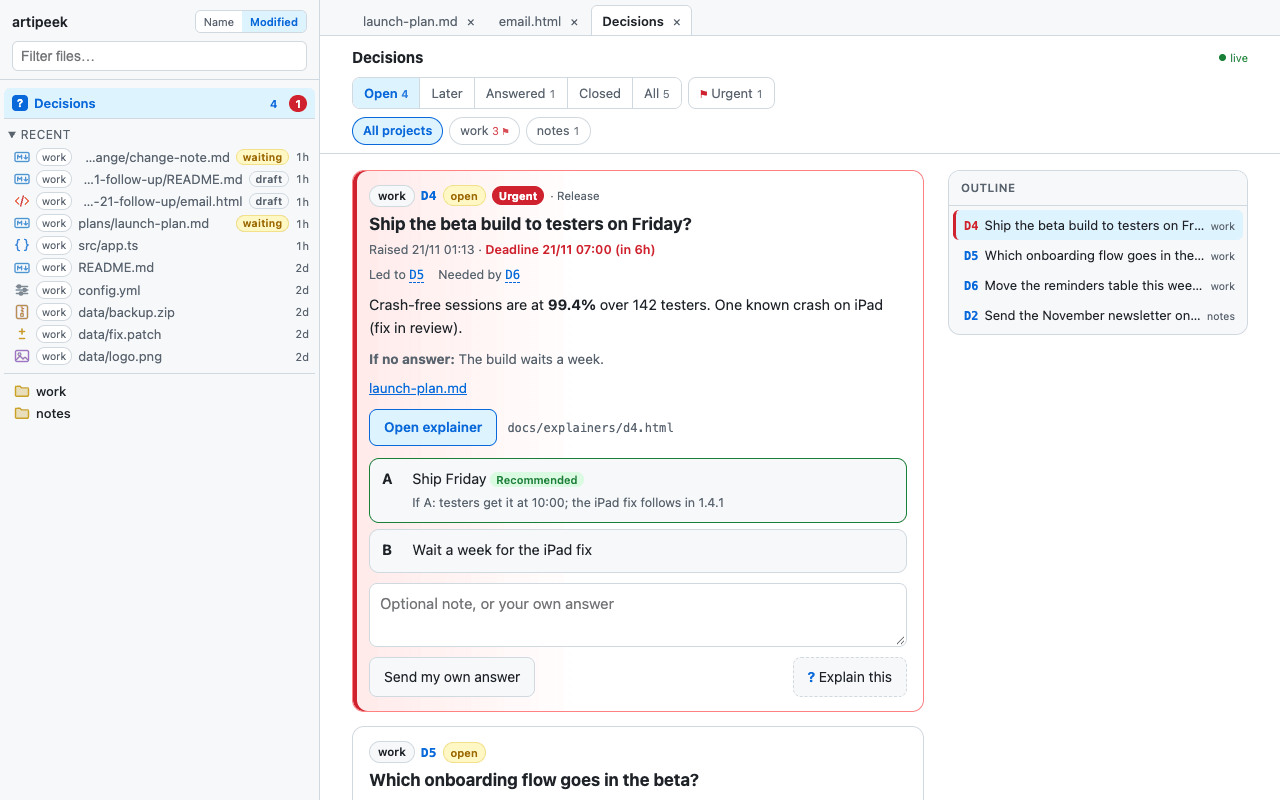
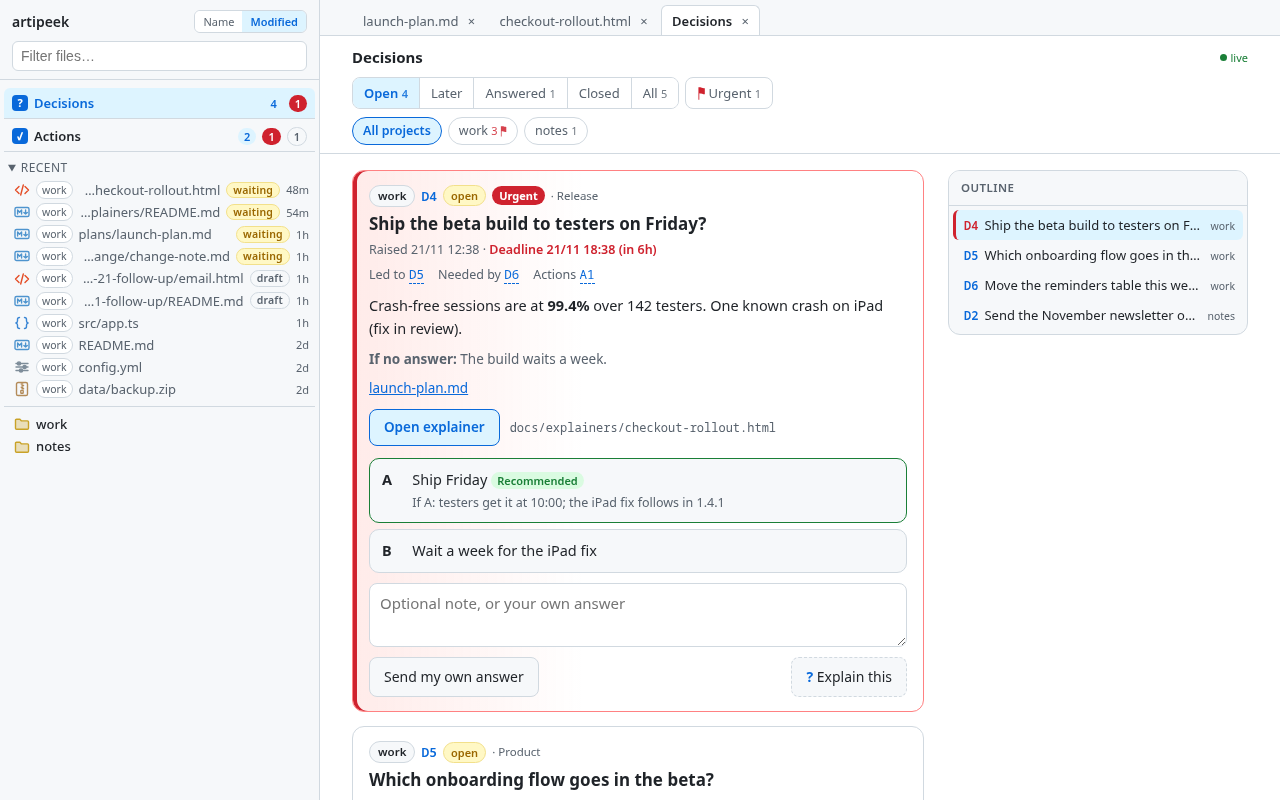
Cập nhật ảnh chụp README sau khi có mục Actions (thanh bên, trang chủ và liên kết Actions A1)
- Chụp lại từ server demo dữ liệu giả (work, notes) giữ nguyên kích thước, giao diện sáng và bố cục:
  - phone-home.png (780×1560, 127 kB): có thêm thẻ Actions kèm số đếm.
  - phone-menu.png (780×1560, 156 kB): ngăn danh sách file có thêm mục Actions kèm số đếm.
  - desktop-decisions.png (1280×800, 176 kB): thanh bên có Actions và thẻ D4 có liên kết "Actions A1".
  - desktop.png (227 kB) và desktop-html.webp (1280×800, 358 kB, 56 khung): thanh bên có mục Actions.
- Giữ nguyên phone-markdown.png, phone-dark-code.png (không hiện thanh bên) và toàn bộ ảnh ios-*, ipad-*, watch-*.
- Cập nhật alt text trong README.md cho phone-home.png, phone-menu.png và desktop-decisions.png.

diff --git a/README.md b/README.md
@@ -5,15 +5,15 @@ AI agents write plans, reports, email drafts, and code inside your local reposit
 Built with [Bun](https://bun.sh). It runs directly from TypeScript with no build step and no client framework. Keep it on localhost, share it with your own devices over [Tailscale](https://tailscale.com) (a private mesh VPN), or publish selected folders behind a Cloudflare Access login—with an optional iPhone and Apple Watch app for push notifications.
 
 <p>
-  <img src="docs/screenshots/phone-home.png" width="200" alt="Home: open and urgent decisions per folder, then one card per folder with its newest files, file-type icons and status labels">
+  <img src="docs/screenshots/phone-home.png" width="200" alt="Home: open and urgent decisions and to-do actions per folder, then one card per folder with its newest files, file-type icons and status labels">
   <img src="docs/screenshots/phone-markdown.png" width="200" alt="Two tabs open; a Markdown file with its status bar, front matter and a table">
-  <img src="docs/screenshots/phone-menu.png" width="200" alt="The file menu slides in: Decisions with its counts, Recent files of every folder, then the folders, with icons and status labels (sent, waiting, draft)">
+  <img src="docs/screenshots/phone-menu.png" width="200" alt="The file menu slides in: Decisions and Actions with their counts, Recent files of every folder, then the folders, with icons and status labels (sent, waiting, draft)">
   <img src="docs/screenshots/phone-dark-code.png" width="200" alt="Highlighted code in dark mode">
 </p>
 
 <img src="docs/screenshots/desktop-html.webp" alt="On a laptop the file list sits on the left, tabs on top. An agent's HTML explainer runs in the sandbox: animated SVG traffic routing, a chart that draws itself, a safety ring, an Option A/B toggle and answer buttons. Its status label comes from the README.md next to it">
 
-<img src="docs/screenshots/desktop-decisions.png" alt="The Decisions tab: open decisions of every folder, oldest first, an urgent one with its deadline, links between decisions, answer options, and the outline on the right">
+<img src="docs/screenshots/desktop-decisions.png" alt="The Decisions tab: open decisions of every folder, oldest first, an urgent one with its deadline, links to related decisions and actions, answer options, and the outline on the right">
 
 <sub>Screenshots use made-up demo folders.</sub>
 
